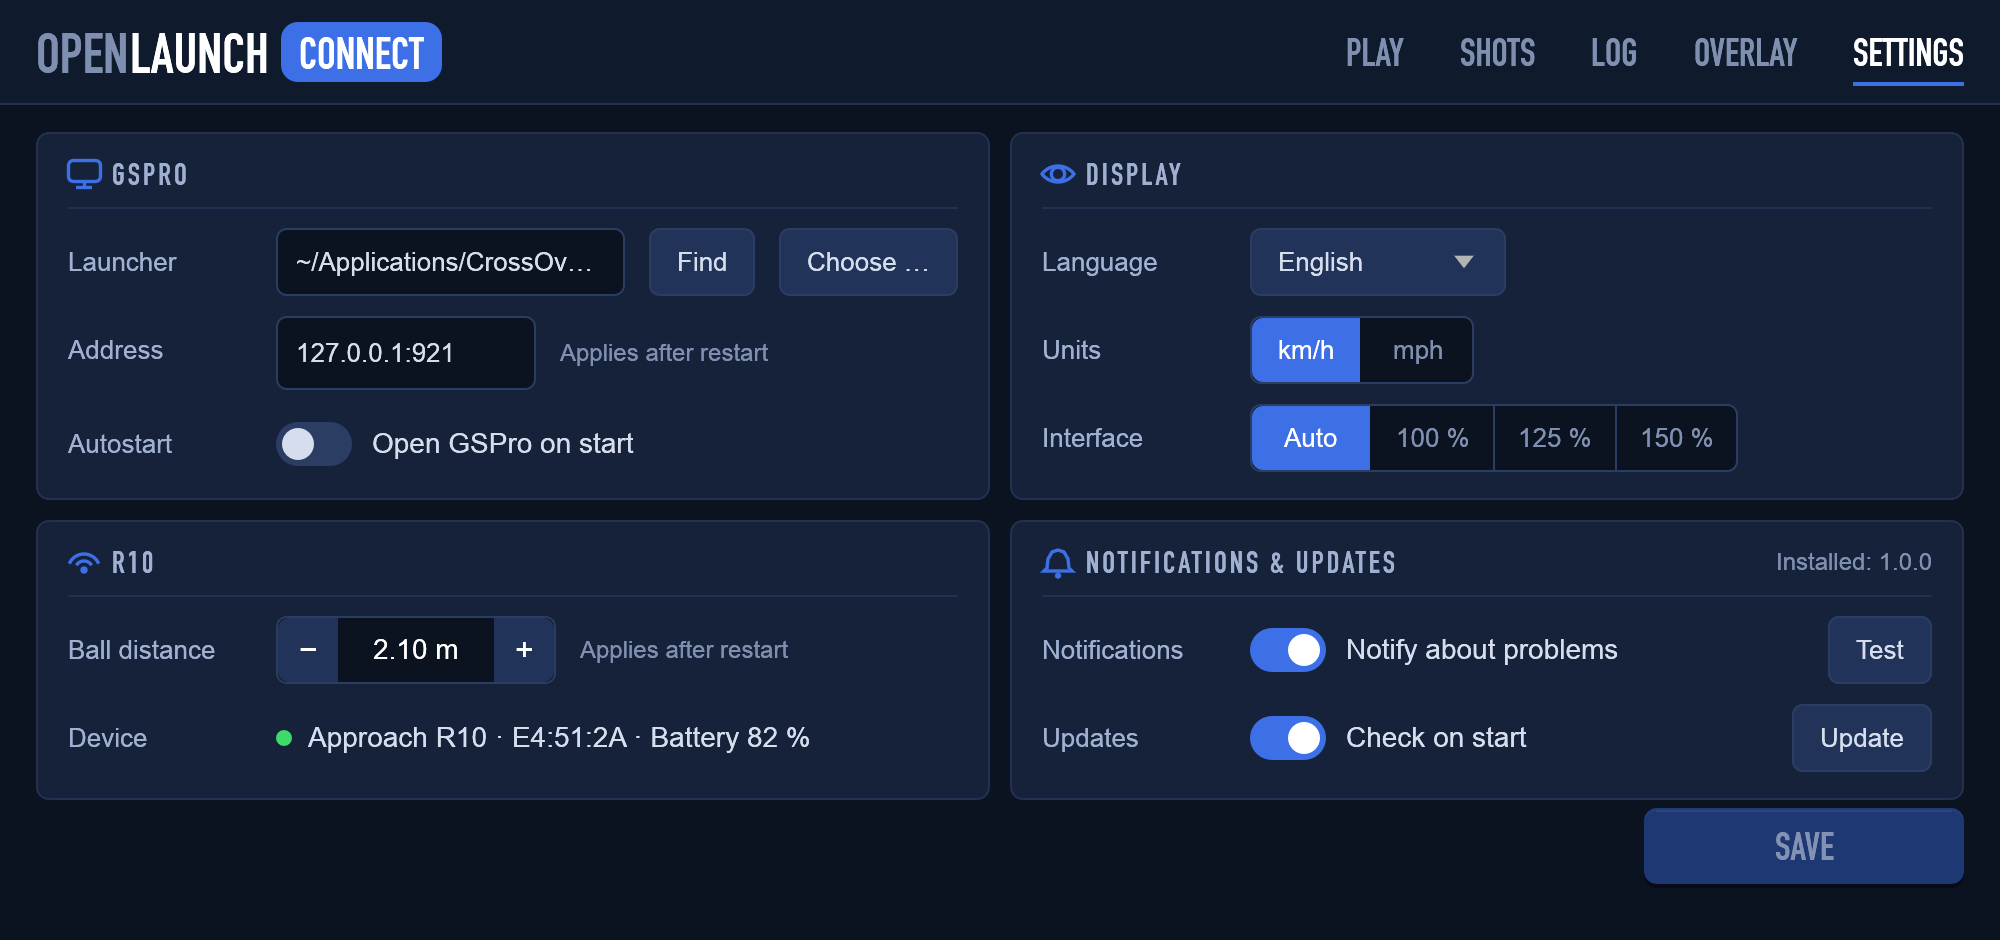
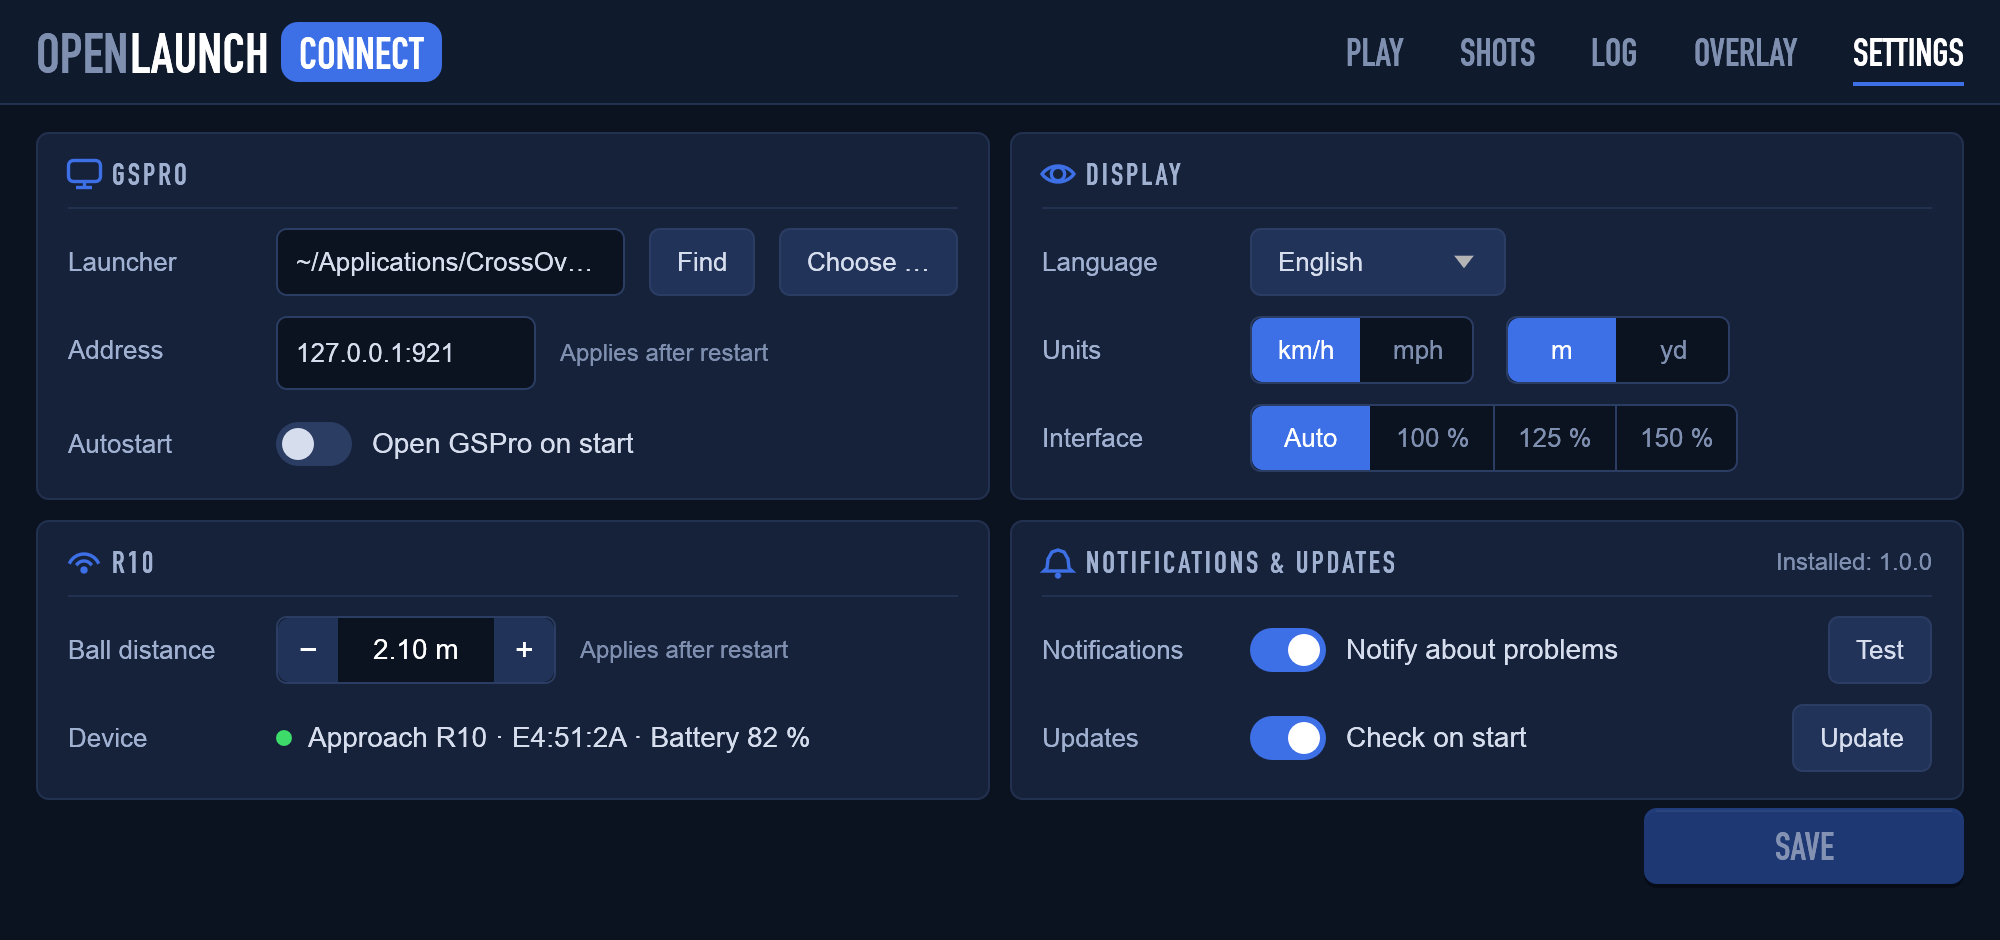
Distance unit (m / yd) separate from the speed unit

Changed region(s): [[0.744, 0.3085, 0.868, 0.4319]]

diff --git a/src/settings.rs b/src/settings.rs
@@ -18,6 +18,8 @@ pub struct Settings {
     pub device: Option<String>,
     /// Show speeds in km/h (true) or mph (false). Display only; GSPro always gets mph.
     pub metric: bool,
+    /// Show distances in metres (true) or yards (false), independent of the speed unit.
+    pub meters: bool,
     /// Log raw GSPro OpenConnect messages.
     pub debug: bool,
     /// Always-on-top status overlay for playing with GSPro in full screen.
@@ -126,6 +128,7 @@ impl Default for Settings {
             auto_start_gspro: false,
             device: None,
             metric: true,
+            meters: true,
             debug: false,
             overlay: OverlayPos::default(),
             overlay_style: OverlayStyle::default(),
@@ -229,6 +232,7 @@ mod tests {
         let s: Settings = serde_json::from_str(r#"{"gspro_addr":"127.0.0.1:921","metric":false}"#).unwrap();
         assert_eq!(s.overlay, OverlayPos::TopRight);
         assert!(!s.metric);
+        assert!(s.meters, "distances default to metres, whatever the speed unit");
         let json = serde_json::to_string(&Settings { overlay: OverlayPos::BottomLeft, ..s }).unwrap();
         assert!(json.contains(r#""overlay":"bottom_left""#));
     }

diff --git a/src/bin/openlaunch-connect.rs b/src/bin/openlaunch-connect.rs
@@ -515,8 +515,9 @@ impl App {
         let metric = self.saved.metric;
         let unit = if metric { "km/h" } else { "mph" };
         let speed = move |mph: f64| if metric { mph * MPH_TO_KMH } else { mph };
-        let dist_unit = if metric { "m" } else { "yd" };
-        let dist = move |m: f64| if metric { m } else { m * M_TO_YD };
+        let meters = self.saved.meters;
+        let dist_unit = if meters { "m" } else { "yd" };
+        let dist = move |m: f64| if meters { m } else { m * M_TO_YD };
         // Header of an estimated column (marked with *) and what it means.
         let estimated = tr("Estimated from the launch data (no wind, sea level); GSPro may show other numbers");
         let header = |ui: &mut egui::Ui, h: &str| {
@@ -759,6 +760,8 @@ impl App {
             });
             setting_row(ui, tr("Units"), |ui| {
                 segmented(ui, &mut self.edit.metric, "km/h", "mph");
+                ui.add_space(4.0);
+                segmented(ui, &mut self.edit.meters, "m", "yd");
             });
             setting_row(ui, tr("Interface"), |ui| {
                 let options = [(None, tr("Auto")), (Some(1.0), "100 %"), (Some(1.25), "125 %"), (Some(1.5), "150 %")];

diff --git a/CHANGELOG.md b/CHANGELOG.md
@@ -14,9 +14,9 @@ The format is based on [Keep a Changelog](https://keepachangelog.com/en/1.1.0/),
   (e.g. a misread); it stays listed, struck through, and *Count* takes it back. Kept in the shot history.
 
 ### Added
-- **Estimated carry and total distance** on the shots page, per shot and as averages per club (in m, or yards
-  with mph). GSPro doesn't send its own results back, so they are estimated from the launch data (no wind, sea
-  level) and marked with *; GSPro may show other numbers.
+- **Estimated carry and total distance** on the shots page, per shot and as averages per club (in metres or
+  yards, chosen separately from the speed unit in Settings → Display). GSPro doesn't send its own results back,
+  so they are estimated from the launch data (no wind, sea level) and marked with *; GSPro may show other numbers.
 
 ### Changed
 - **Interface size** (Settings → Display): *Auto* zooms the interface with the window as before; a fixed size of
